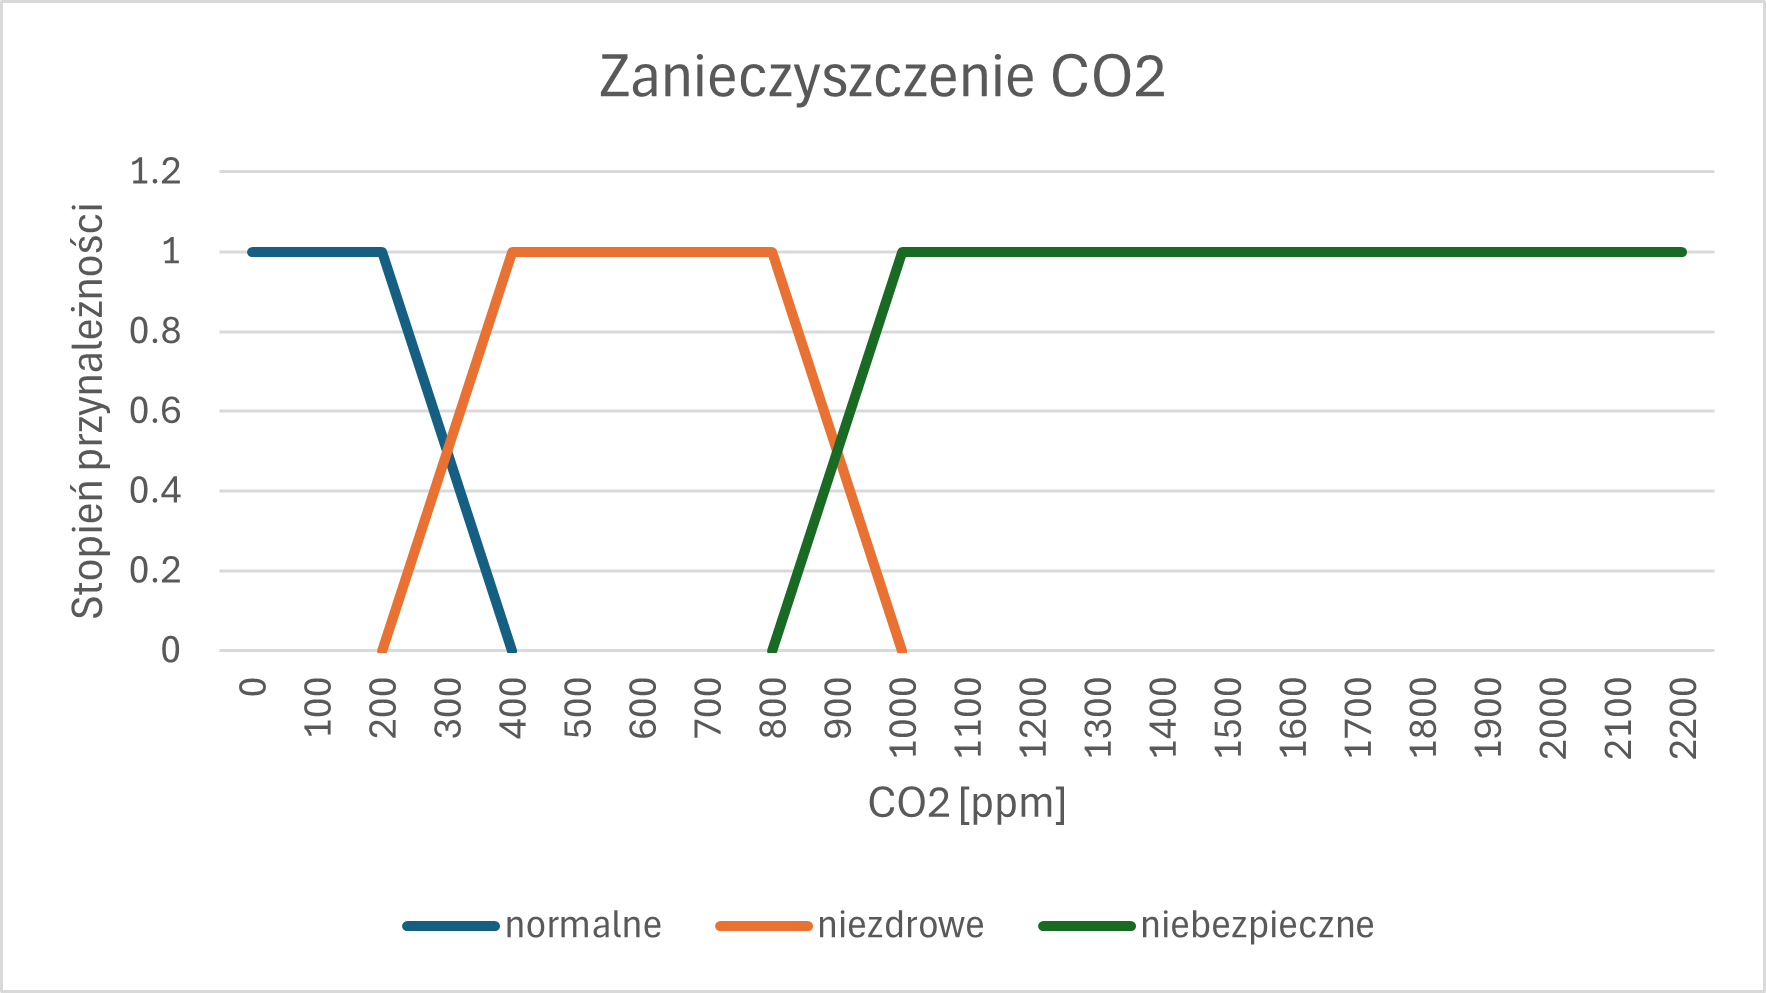
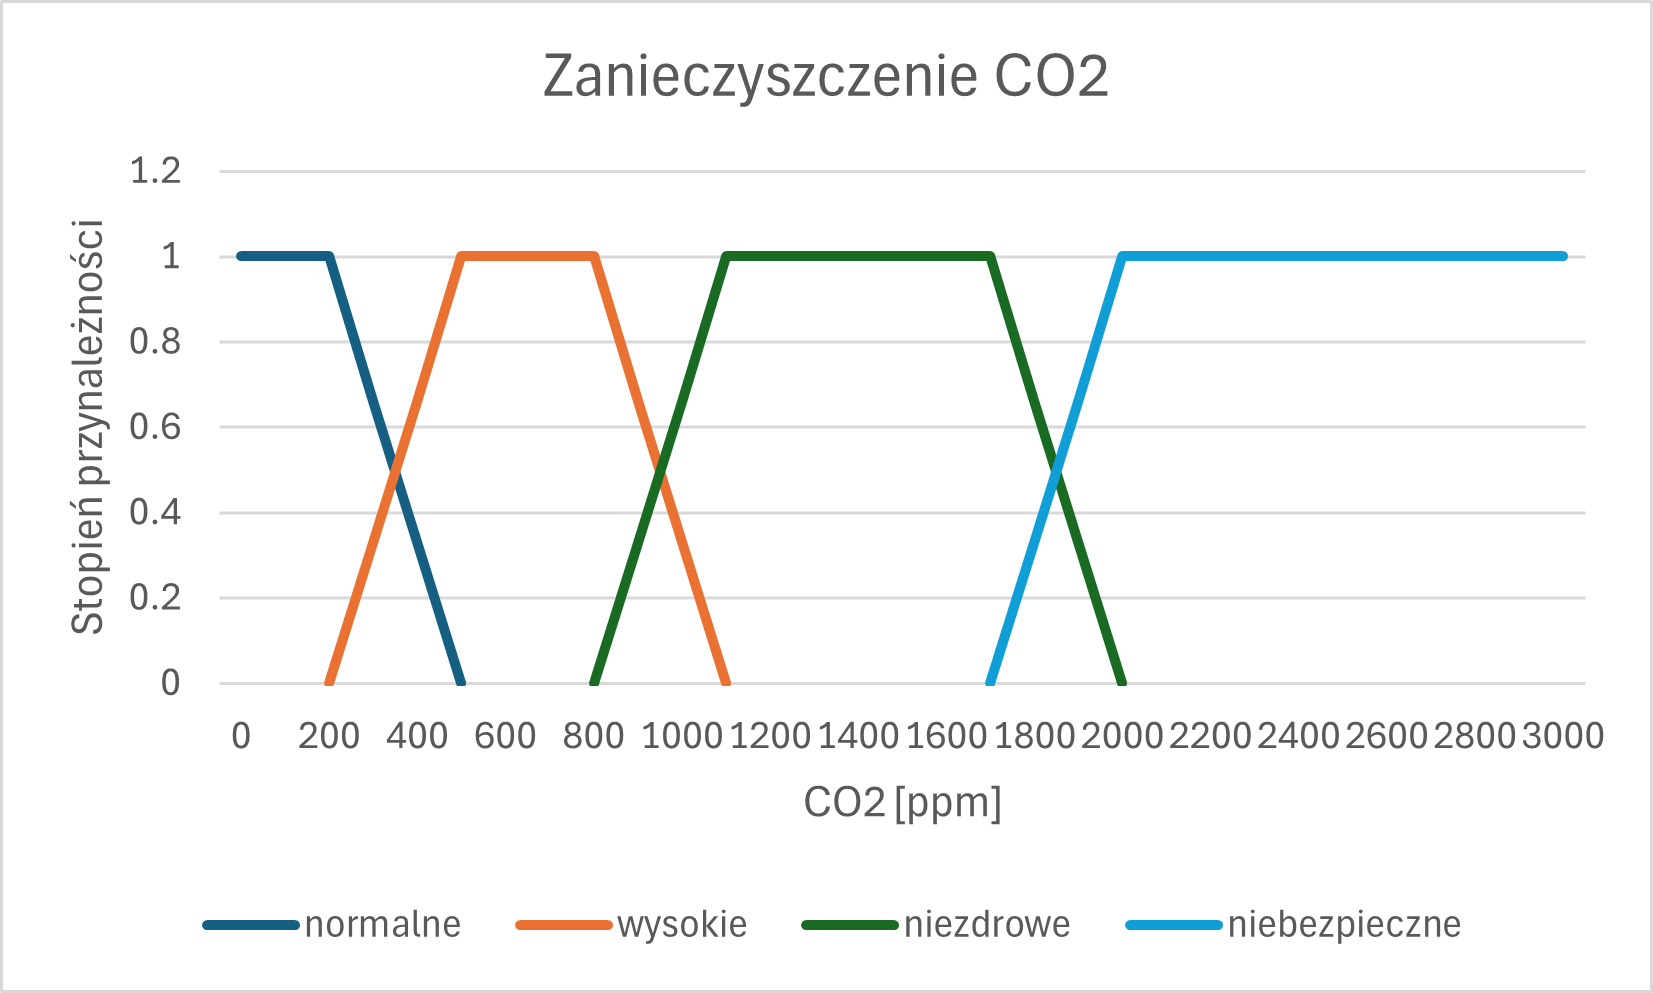
ksr -> chyba teraz juz finalne zmienne

diff --git a/KSR/Projekt2/Sprawozdanie/Sprawozdanie-projekt-2-podsumowania.tex b/KSR/Projekt2/Sprawozdanie/Sprawozdanie-projekt-2-podsumowania.tex
@@ -29,19 +29,19 @@ jest lingwistyczna agregacja zawartości wybranego zbioru danych. Ma ona za zada
 \section{Baza danych, zmienne lingwistyczne, kwantyfikatory lingwistyczne}
 
 \subsection{Charakterystyka podsumowywanej bazy danych}
-W tym projekcie został wykorzystany zbiór danych zapisany w pliku w formacie .csv, na podstawie którego utworzono bazę danych - PostgresSQL. Baza danych o nazwie World Weather Repository zawiera różnego rodzaju pomiary danych atmosferycznych, np. temperatura lub prędkość wiatru. \cite{baza} Użteczność bazy jest określona na stronie Kaggle jako 10.0, a dane z niej są wykorzystywane do prognozowanie pogody oraz analizy klimatu na różnych kontynentach. Baza jest nabieżąco aktualizowana, natomiast na dzień 18.05.2025r. składa się z 71331 rekordów. 
+W tym projekcie został wykorzystany zbiór danych zapisany w pliku w formacie .csv, na podstawie którego utworzono bazę danych - PostgresSQL. Baza danych o nazwie World Weather Repository zawiera różnego rodzaju pomiary danych atmosferycznych, np. temperatura lub prędkość wiatru. \cite{baza} Użteczność bazy jest określona na stronie Kaggle jako 10.0, a dane z niej są wykorzystywane do prognozowanie pogody oraz analizy klimatu na różnych kontynentach. Baza jest nabieżąco aktualizowana, natomiast na dzień 18.05.2025r. składa się z 70292 rekordów. 
 
 Zmiennym lingwistycznym przypisuje się znaczenie ze względu na potrzebę lepszej interpretowalności danych przez użytkowników. Ludzie rzadko reagują na dokładne wartości (np. 1033.8 mb ciśnienia), natomiast określenie „wysokie ciśnienie” pozwala im intuicyjnie rozumieć sytuację pogodową. Stąd istnieje zapotrzebowanie na „przekładanie” danych formalnych na język naturalny. \\
 Podmiotem podsumowań jest pomiar atmosferyczny, z bazy World Weather Repository wybrano 10 atrybutów, które zostaną rozmyte, są to następujące kolumny:
 \begin{enumerate}
     \item last\_updated - data przeprowadzenia pomiarów, z tego atrybutu zostanie wykorzystana godzina w celu określenia pory dnia, zakres [0 - 24]. 
     \item temperature\_celsius - temperatura wyrażona w stopniach Celsjusza w zakresie [-25, 50].
-    \item wind\_kph - prędkość wiatru wyrażona w kilometrach na godzinę w zakresie [3, 151]. 
-    \item pressure\_mb - ciśnienie powietrza wyrażone w milibarach w zakresie [947 - 1050]. 
+    \item wind\_kph - prędkość wiatru wyrażona w kilometrach na godzinę w zakresie [3, 92]. 
+    \item pressure\_mb - ciśnienie powietrza wyrażone w milibarach w zakresie [947 - 1052]. 
     \item humidity - wilgotność w zakresie [2 - 100\%].
     \item visibility\_km - widoczność wyrażona w kilometrach w zakresie [0, 32].
     \item uv\_index - wartość promieniowania słonecznego UVI w zakresie [0, 16].
-    \item air\_quality\_Carbon\_Monoxide - pomiar jakości powietrza ze względu na stężenie tlenku węgla, wyrażony w ppm(liczba cząstek CO2 w milionie cząstek powietrza), w zakresie [0 - 2220].
+    \item air\_quality\_Carbon\_Monoxide - pomiar jakości powietrza ze względu na stężenie tlenku węgla, wyrażony w ppm(liczba cząstek CO2 w milionie cząstek powietrza), w zakresie [0 - 3000].
     \item air\_quality\_Nitrogen\_dioxide - pomiar jakości powietrza ze względu na stężenie dwutlenku azotu, wyrażony w ppm(liczba cząstek NO2 w milionie cząstek powietrza) w zakresie [0 - 428].
     \item air\_quality\_gb-defra-index - skala określająca poziomy zanieczyszczenia w powietrzu w zakresie [1 - 10].
 
@@ -177,7 +177,7 @@ Poniżej zostały zaprezentowane zmienne lingwistyczne dla atrybutów opisanych 
         \begin{equation}
             L_3 = \langle \mathcal{L}_3, H_3, \mathcal{X}_3 \rangle
         \end{equation}
-        gdzie: $\mathcal{L}_3$ – wiatr, $H_3$ – \{słaby, umiarkowany, silny, bardzo silny, gwałtowny, huragan\}, $\mathcal{X}_3 = [3, 151]$. \\
+        gdzie: $\mathcal{L}_3$ – wiatr, $H_3$ – \{słaby, umiarkowany, silny, bardzo silny, gwałtowny\}, $\mathcal{X}_3 = [3, 151]$. \\
         Poniżej wzory dla wszystkich możliwych etykiet.
                   \begin{equation}
                     \mu_{\text{słaby}}(x) =
@@ -218,15 +218,7 @@ Poniżej zostały zaprezentowane zmienne lingwistyczne dla atrybutów opisanych 
                     \mu_{\text{gwałtowny}}(x) =
                     \begin{cases}
                     \frac{x - 60}{20}, & x \in (60, 80) \\
-                    1, & x = 80 \\
-                    0, & \text{w przeciwnym razie}
-                    \end{cases}
-              \end{equation}
-                 \begin{equation}
-                    \mu_{\text{huragan}}(x) =
-                    \begin{cases}
-                    \frac{x - 80}{20}, & x \in (80, 100) \\
-                    1, & x \in (100, 151) \\
+                    1, & x \in [80, 92] \\
                     0, & \text{w przeciwnym razie}
                     \end{cases}
               \end{equation}
@@ -264,7 +256,7 @@ Poniżej zostały zaprezentowane zmienne lingwistyczne dla atrybutów opisanych 
                 \mu_{\text{wysokie}}(x) =
                     \begin{cases}
                     \frac{x - 1020}{20}, & x \in (1020, 1040] \\
-                    1, & x \in (1040, 1050] \\
+                    1, & x \in (1040, 1052] \\
                     0, & \text{w przeciwnym razie}
                     \end{cases}
                 \end{equation}
@@ -439,7 +431,17 @@ Poniżej zostały zaprezentowane zmienne lingwistyczne dla atrybutów opisanych 
     \mu_{\text{normalne}}(x) =
     \begin{cases}
     1, & x \in [0, 200] \\
-    \frac{400 - x}{200}, & x \in (200, 400] \\
+    \frac{500 - x}{300}, & x \in (200, 500) \\
+    0, & \text{w przeciwnym razie}
+    \end{cases}
+    \end{equation}
+
+    \begin{equation}
+    \mu_{\text{wysokie}}(x) =
+    \begin{cases}
+    \frac{x - 200}{300}, & x \in (200, 500) \\
+    1, & x \in [500, 800] \\
+    \frac{900 - x}{300}, & x \in (800, 1100) \\
     0, & \text{w przeciwnym razie}
     \end{cases}
     \end{equation}
@@ -447,9 +449,9 @@ Poniżej zostały zaprezentowane zmienne lingwistyczne dla atrybutów opisanych 
     \begin{equation}
     \mu_{\text{niezdrowe}}(x) =
     \begin{cases}
-    \frac{x - 200}{200}, & x \in (200, 400] \\
-    1, & x \in (400, 800] \\
-    \frac{1000 - x}{200}, & x \in (800, 1000) \\
+    \frac{x - 800}{300}, & x \in (800, 1100) \\
+    1, & x \in [1100, 1700] \\
+    \frac{2000 - x}{300}, & x \in (1700, 2000) \\
     0, & \text{w przeciwnym razie}
     \end{cases}
     \end{equation}
@@ -457,8 +459,8 @@ Poniżej zostały zaprezentowane zmienne lingwistyczne dla atrybutów opisanych 
     \begin{equation}
     \mu_{\text{niebezpieczne}}(x) =
     \begin{cases}
-    \frac{x - 800}{200}, & x \in (800, 1000] \\
-    1, & x > \ in (1000, 2220] \\
+    \frac{x - 1700}{300}, & x \in (1700, 2000) \\
+    1, & x \in [2000, 3000] \\
     0, & \text{w przeciwnym razie}
     \end{cases}
     \end{equation}

diff --git a/KSR/Projekt2/ksr/src/main/java/ksr/zad2/model/variables/CoValues.java b/KSR/Projekt2/ksr/src/main/java/ksr/zad2/model/variables/CoValues.java
@@ -5,20 +5,24 @@ import ksr.zad2.fuzzy.LinguisticVariable;
 import ksr.zad2.fuzzy.TrapezoidalFunction;
 
 public class CoValues {
-    public static LinguisticVariable coQualityVariable = new LinguisticVariable("Zanieczyszczenie CO", 0.0, 2220.0);
+    public static LinguisticVariable coQualityVariable = new LinguisticVariable("Zanieczyszczenie CO", 0.0, 3000.0);
 
     // normalne: 1 na [0, 200], opada 200-400
     public static LinguisticTerm normalne = new LinguisticTerm(
-            "normalne", new TrapezoidalFunction(0, 0, 200, 400)
+            "normalne", new TrapezoidalFunction(0, 0, 200, 500)
+    );
+
+    public static LinguisticTerm wysokie = new LinguisticTerm(
+            "normalne", new TrapezoidalFunction(200, 500, 800, 1100)
     );
 
     // niezdrowe: rośnie 200-400, 1 na [400, 800], opada 800-1000
     public static LinguisticTerm niezdrowe = new LinguisticTerm(
-            "niezdrowe", new TrapezoidalFunction(200, 400, 800, 1000)
+            "niezdrowe", new TrapezoidalFunction(800, 1100, 1700, 2000)
     );
 
     // niebezpieczne: rośnie 800-1000, 1 na [1000, 2220]
     public static LinguisticTerm niebezpieczne = new LinguisticTerm(
-            "niebezpieczne", new TrapezoidalFunction(800, 1000, 2220, 2220)
+            "niebezpieczne", new TrapezoidalFunction(1700, 2000, 3000, 3000)
     );
 }

diff --git a/KSR/Projekt2/ksr/src/main/java/ksr/zad2/model/variables/QuantifierValues.java b/KSR/Projekt2/ksr/src/main/java/ksr/zad2/model/variables/QuantifierValues.java
@@ -3,15 +3,16 @@ package ksr.zad2.model.variables;
 import ksr.zad2.fuzzy.GaussianFunction;
 import ksr.zad2.fuzzy.LinguisticVariable;
 import ksr.zad2.fuzzy.Quantifier;
+import ksr.zad2.fuzzy.TrapezoidalFunction;
 import lombok.Data;
 
 @Data
 public class QuantifierValues {
     public static LinguisticVariable linguisticVariableQ = new LinguisticVariable("Przynależność",0.0, 1.0);
     public static Quantifier Q1 = new Quantifier("prawie żaden", new GaussianFunction(0.0, 0.06), true, 0.0, 0.2);
-    public static Quantifier Q2 = new Quantifier("trochę", new GaussianFunction(0.3, 0.06), true, 0.1, 0.5);
+    public static Quantifier Q2 = new Quantifier("trochę", new TrapezoidalFunction(0.1, 0.25, 0.30, 0.45), true, 0.1, 0.45);
     public static Quantifier Q3 = new Quantifier("około połowy", new GaussianFunction(0.5, 0.06), true, 0.3, 0.7);
-    public static Quantifier Q4 = new Quantifier("wiele", new GaussianFunction(0.7, 0.06), true, 0.5, 0.9);
+    public static Quantifier Q4 = new Quantifier("wiele", new TrapezoidalFunction(0.6, 0.75, 0.8, 0.95), true, 0.5, 0.9);
     public static Quantifier Q5 = new Quantifier("prawie wszystkie", new GaussianFunction(1.0, 0.06), true, 0.8, 1.0);
 
 }

diff --git a/KSR/Projekt2/ksr/src/main/java/ksr/zad2/model/variables/WindValues.java b/KSR/Projekt2/ksr/src/main/java/ksr/zad2/model/variables/WindValues.java
@@ -6,7 +6,7 @@ import ksr.zad2.fuzzy.TrapezoidalFunction;
 import ksr.zad2.fuzzy.TriangularFunction;
 
 public class WindValues {
-    public static LinguisticVariable windVariable = new LinguisticVariable("Wiatr", 3.0, 151.0);
+    public static LinguisticVariable windVariable = new LinguisticVariable("Wiatr", 3.0, 92);
 
     public static LinguisticTerm slaby = new LinguisticTerm(
             "słaby", new TriangularFunction(0, 0, 20)
@@ -25,10 +25,7 @@ public class WindValues {
     );
 
     public static LinguisticTerm gwaltowny = new LinguisticTerm(
-            "gwałtowny", new TriangularFunction(60, 80, 100)  // trójkąt z prawej ramki ściętej
+            "gwałtowny", new TrapezoidalFunction(60, 80, 92, 92)  // trójkąt z prawej ramki ściętej
     );
 
-    public static LinguisticTerm huragan = new LinguisticTerm(
-            "huragan", new TrapezoidalFunction(80, 100, 151, 151)
-    );
 }

diff --git a/KSR/Projekt2/ksr/src/main/java/ksr/zad2/model/variables/PressureValues.java b/KSR/Projekt2/ksr/src/main/java/ksr/zad2/model/variables/PressureValues.java
@@ -5,7 +5,7 @@ import ksr.zad2.fuzzy.LinguisticVariable;
 import ksr.zad2.fuzzy.TrapezoidalFunction;
 
 public class PressureValues {
-    public static LinguisticVariable pressureVariable = new LinguisticVariable("Ciśnienie", 947.0, 1050.0);
+    public static LinguisticVariable pressureVariable = new LinguisticVariable("Ciśnienie", 947.0, 1052.0);
 
     public static LinguisticTerm niskie = new LinguisticTerm(
             "niskie", new TrapezoidalFunction(947, 947, 970, 1000)
@@ -16,6 +16,6 @@ public class PressureValues {
     );
 
     public static LinguisticTerm wysokie = new LinguisticTerm(
-            "wysokie", new TrapezoidalFunction(1020, 1040, 1050, 1050)
+            "wysokie", new TrapezoidalFunction(1020, 1040, 1050, 1052)
     );
 }
